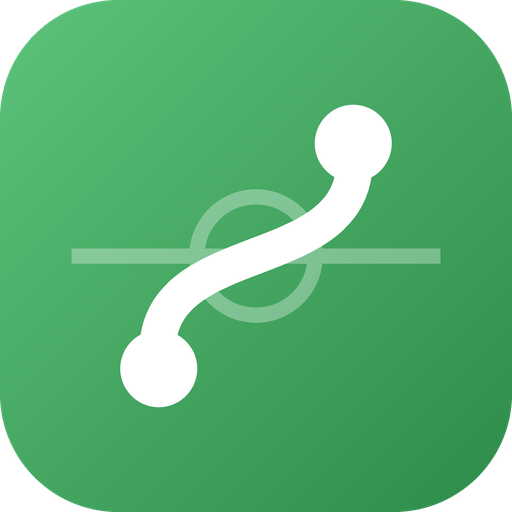
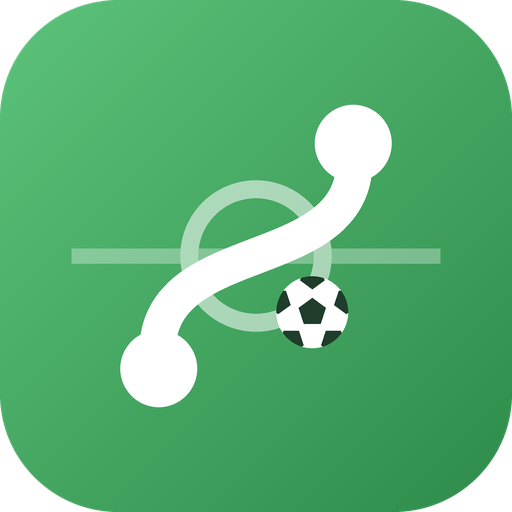
[update] さくせん盤のアイコン：センターサークルの右下にサッカーボールを置き、サークル＋ボールで Q にも見せる

Changed region(s): [[0.375, 0.4688, 0.6875, 0.6875], [0.3438, 0.3438, 0.625, 0.5312]]

diff --git a/tools/icon.py b/tools/icon.py
@@ -4,6 +4,7 @@
 おくるん（OQRN）のアイコンと同じ角の丸い四角に、ピッチの緑のグラデーション。
 中は、白い S 字の作戦の線（パスの通り道）と、その両端の選手2人。後ろにうっすらピッチの線（ハーフウェーラインとセンターサークル）。
 S 字は「さくせん（SAQSEN）」の S も兼ねる。作戦盤の線と同じく矢印は付けない。
+センターサークルの右下にサッカーボールを置き、サークル（輪）＋ボール（しっぽ）で Q にも見せる（SAQSEN の Q）。
 
   icon.svg             … ファビコン
   apple-touch-icon.png … iPhone のホーム画面（180px）
@@ -11,6 +12,7 @@ S 字は「さくせん（SAQSEN）」の S も兼ねる。作戦盤の線と同
 
 Pillow が必要。使い方: python3 tools/icon.py
 """
+import math
 from pathlib import Path
 
 from PIL import Image, ImageDraw
@@ -27,10 +29,25 @@ S_PATH = ((31, 72), (27, 44), (73, 56), (69, 28))  # S 字（3次ベジェ）：
 S_WIDTH = 7
 PLAYER_R = 7.5
 FAINT = 0.32  # ピッチの線の濃さ
+CIRCLE = (50, 50, 13)  # センターサークル（中心 x, y, 半径）
+CIRCLE_ALPHA = 0.55  # サークルはハーフウェーラインより濃く（ボールと合わせて Q に見せる）
+BALL = (61, 61, 7)  # ボール：サークルの右下（45°）のふちに重ねる＝Q のしっぽ
+BALL_INK = (31, 61, 42)  # ボールの模様
 
 
 def hex_(rgb):
     return "#%02x%02x%02x" % rgb
+
+
+def pentagon(cx, cy, r, rot=-90):
+    return [(cx + r * math.cos(math.radians(rot + 72 * i)), cy + r * math.sin(math.radians(rot + 72 * i))) for i in range(5)]
+
+
+def ball_patches():
+    """ボールの模様：真ん中の五角形と、ふちの5つの五角形（ボールの輪で切って使う）"""
+    cx, cy, r = BALL
+    outer = [pentagon(cx + r * math.cos(math.radians(-90 + 72 * i)), cy + r * math.sin(math.radians(-90 + 72 * i)), r * 0.36, -90 + 72 * i + 36) for i in range(5)]
+    return [pentagon(cx, cy, r * 0.4), *outer]
 
 
 def svg():
@@ -41,10 +58,14 @@ def svg():
         f'<defs><linearGradient id="g" x1="0" y1="0" x2="1" y2="1"><stop offset="0" stop-color="{hex_(PITCH_LIGHT)}"/>'
         f'<stop offset="1" stop-color="{hex_(PITCH_DARK)}"/></linearGradient></defs>'
         f'<rect width="100" height="100" rx="{RADIUS}" fill="url(#g)"/>'
-        f'<path d="M14 50H86" {faint}/><circle cx="50" cy="50" r="13" {faint}/>'
+        f'<path d="M14 50H86" {faint}/><circle cx="{CIRCLE[0]}" cy="{CIRCLE[1]}" r="{CIRCLE[2]}" stroke="#ffffff" stroke-opacity="{CIRCLE_ALPHA}" stroke-width="3.5" fill="none"/>'
         f'<path d="M{x0} {y0}C{x1} {y1} {x2} {y2} {x3} {y3}" stroke="#ffffff" stroke-width="{S_WIDTH}" stroke-linecap="round" fill="none"/>'
         f'<circle cx="{x0}" cy="{y0}" r="{PLAYER_R}" fill="#ffffff"/><circle cx="{x3}" cy="{y3}" r="{PLAYER_R}" fill="#ffffff"/>'
-        "</svg>"
+        f'<clipPath id="b"><circle cx="{BALL[0]}" cy="{BALL[1]}" r="{BALL[2]}"/></clipPath>'
+        f'<circle cx="{BALL[0]}" cy="{BALL[1]}" r="{BALL[2]}" fill="#ffffff"/>'
+        f'<g clip-path="url(#b)" fill="{hex_(BALL_INK)}">'
+        + "".join('<polygon points="' + " ".join(f"{x:.2f},{y:.2f}" for x, y in poly) + '"/>' for poly in ball_patches())
+        + "</g></svg>"
     )
 
 
@@ -79,7 +100,8 @@ def png(size, rounded=True):
     d = ImageDraw.Draw(lines)
     faint = (255, 255, 255, round(255 * FAINT))
     d.line((s(14), s(50), s(86), s(50)), fill=faint, width=round(s(3)))
-    d.ellipse((s(37), s(37), s(63), s(63)), outline=faint, width=round(s(3)))
+    cx, cy, r = CIRCLE
+    d.ellipse((s(cx - r) - s(1.75), s(cy - r) - s(1.75), s(cx + r) + s(1.75), s(cy + r) + s(1.75)), outline=(255, 255, 255, round(255 * CIRCLE_ALPHA)), width=round(s(3.5)))
     img = Image.alpha_composite(img, lines)
     # S 字の線（丸い端）と選手2人
     d = ImageDraw.Draw(img)
@@ -89,6 +111,17 @@ def png(size, rounded=True):
         d.ellipse((s(x) - half, s(y) - half, s(x) + half, s(y) + half), fill=WHITE)
     for x, y in (S_PATH[0], S_PATH[3]):
         d.ellipse((s(x - PLAYER_R), s(y - PLAYER_R), s(x + PLAYER_R), s(y + PLAYER_R)), fill=WHITE)
+    # サークルの右下のボール（Q のしっぽ）
+    bx, by, br = BALL
+    d.ellipse((s(bx - br), s(by - br), s(bx + br), s(by + br)), fill=WHITE)
+    big_ = img.size[0]
+    pattern = Image.new("RGBA", (big_, big_), (0, 0, 0, 0))
+    pd = ImageDraw.Draw(pattern)
+    for poly in ball_patches():
+        pd.polygon([(s(x), s(y)) for x, y in poly], fill=BALL_INK)
+    clip = Image.new("L", (big_, big_), 0)
+    ImageDraw.Draw(clip).ellipse((s(bx - br), s(by - br), s(bx + br), s(by + br)), fill=255)
+    img.paste(pattern, (0, 0), Image.composite(pattern.getchannel("A"), Image.new("L", (big_, big_), 0), clip))
     return img.resize((size, size), Image.LANCZOS)
 
 

diff --git a/README.md b/README.md
@@ -2,7 +2,7 @@
 
 サッカー・フットサルのスタメン発表・作戦盤・試合結果のツール。名前は「さくせん盤」（英字は SAQSEN。おくるん＝OQRN と同じ作り方）。ふだん見せるのはひらがなの「さくせん盤」、英字は見出しの下の小さな文字やロゴに使う。送るカードはおくるんで作る。
 
-アイコン（`icon.svg`・`apple-touch-icon.png`・`icon-512.png`）は `python3 tools/icon.py` で作る：おくるんと同じ角の丸い四角に、ピッチの緑。白い S 字の作戦の線（パスの通り道。さくせんの S）と両端の選手2人、うっすらピッチの線。
+アイコン（`icon.svg`・`apple-touch-icon.png`・`icon-512.png`）は `python3 tools/icon.py` で作る：おくるんと同じ角の丸い四角に、ピッチの緑。白い S 字の作戦の線（パスの通り道。さくせんの S）と両端の選手2人、うっすらピッチの線。センターサークルの右下にサッカーボールを置き、サークル＋ボールで Q にも見せる（SAQSEN の Q）。
 
 サッカー・フットサルのスタメン発表と作戦盤。選手をピッチに並べて、[おくるん](https://katsuan.github.io/line-share/)の「お知らせカード」で LINE にカードとして送れます。試合結果のカードも作れます。GitHub Pages でそのまま動く静的サイトです。
 
